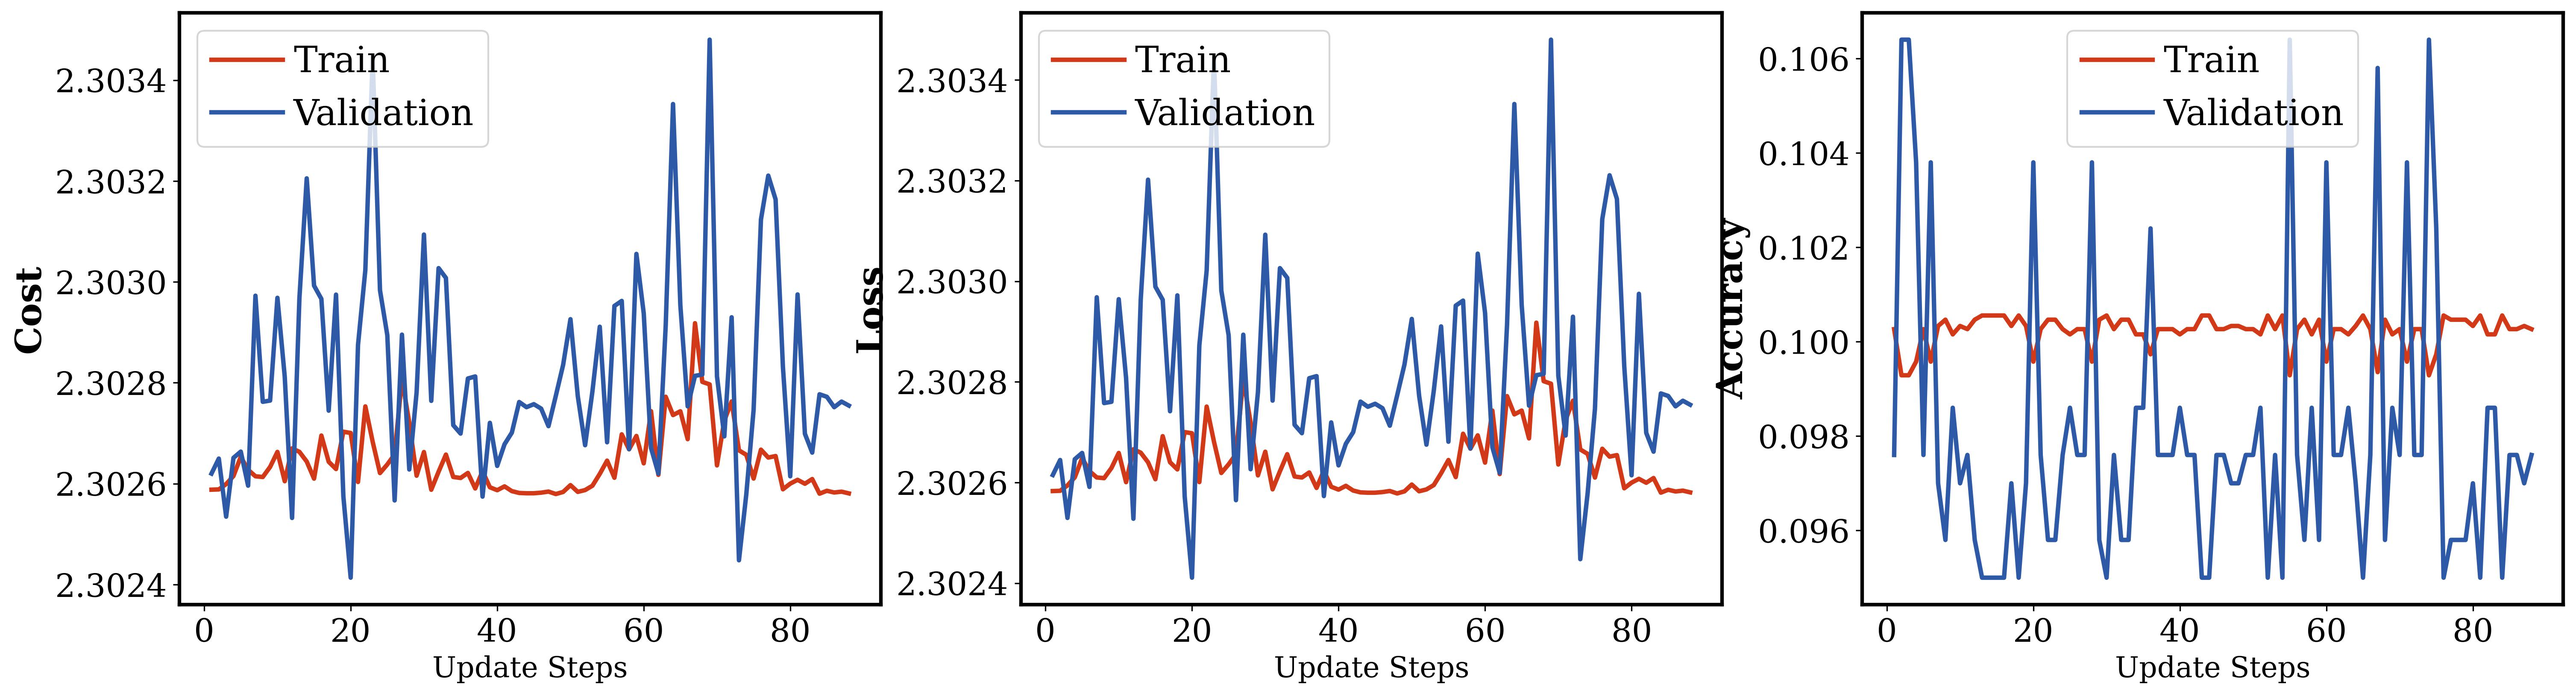
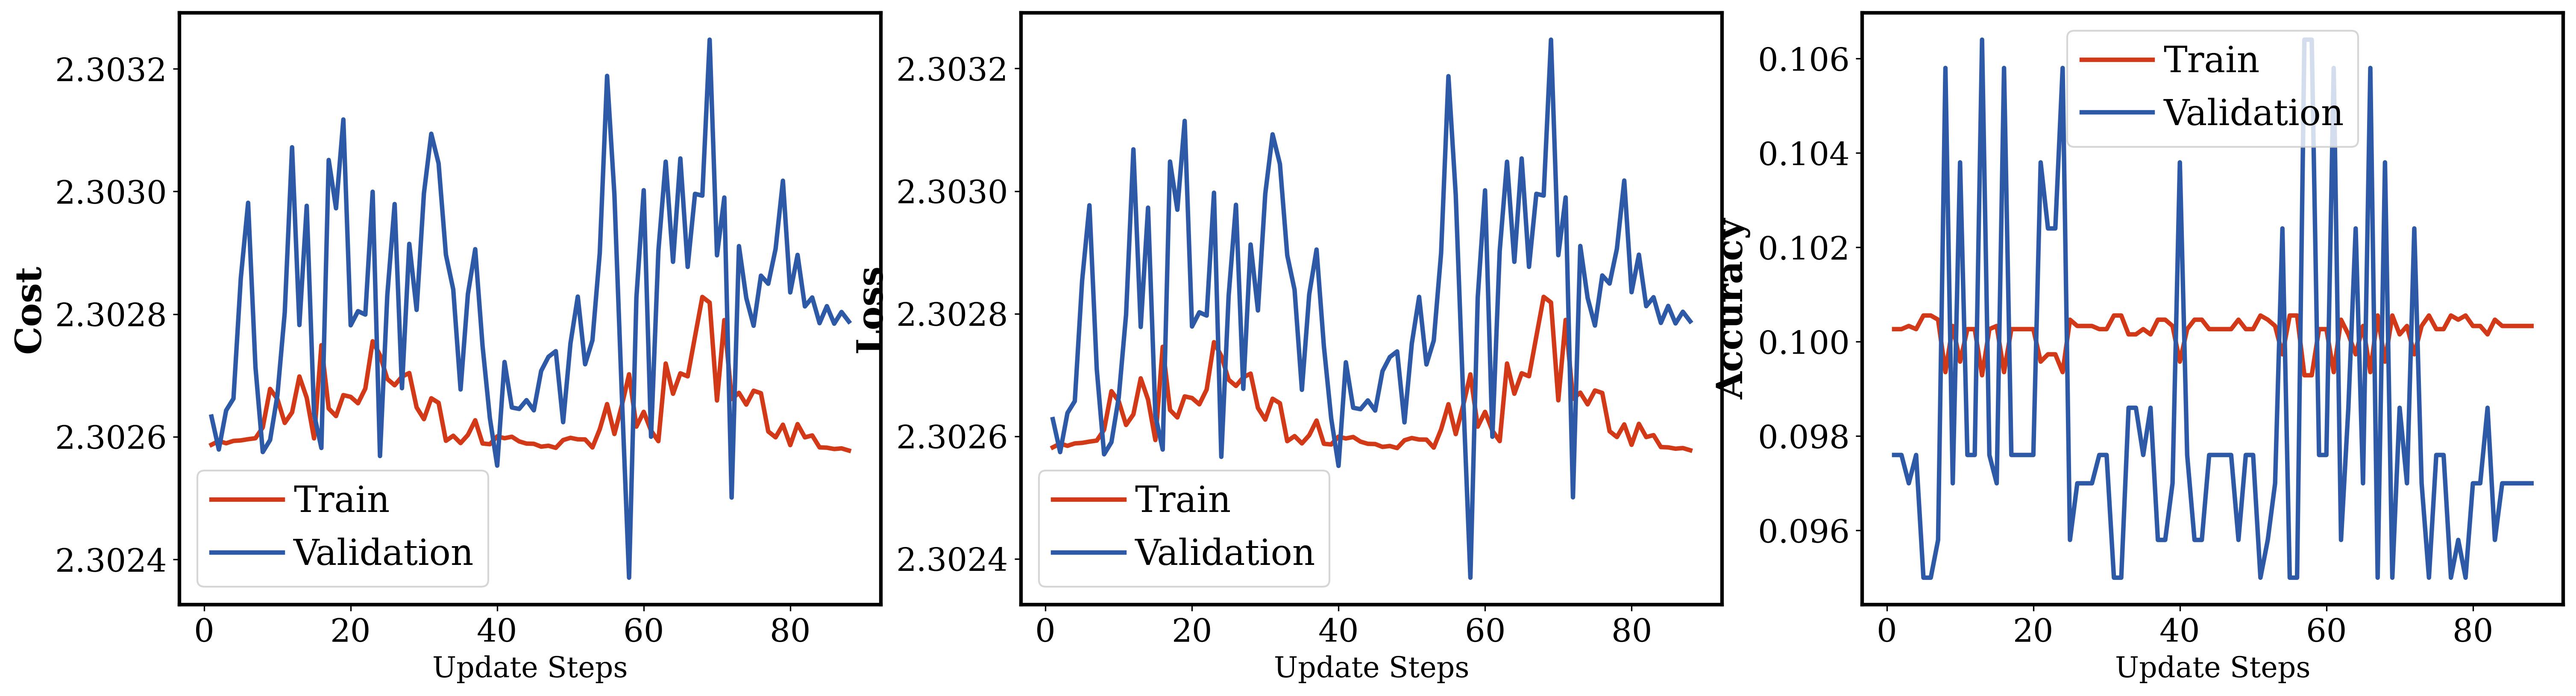
update

diff --git a/hw3/main.py b/hw3/main.py
@@ -798,8 +798,8 @@ class TestMethods(unittest.TestCase):
         bs    = 1
         data, labels = dl_One_batch()
         layers = make_layers_param(
-                shapes=[(50, trunc), (50, 50), (10, 50)],
-                activations=["relu", "relu", "softmax"])
+                shapes=[(50, trunc), (50, 50), (50, 50), (10, 50)],
+                activations=["relu", "relu","relu","softmax"])
 
         clf = mlpClassifier(data, layers=layers, if_batch_norm=True)
 
@@ -965,6 +965,7 @@ def sensitivity_study():
     """
     # Std to use for initialisation
     sigs = [1e-1,1e-3,1e-4]
+    sigs = [1e-4]
     # Get from the finer search 
     opt_lambda = 0.0032461338701209826
 
@@ -1030,9 +1031,10 @@ def post_sensitivity():
 
     icount = 0
 
-    plt_dict_bn_train = {'lw':2.5,'c':colorplate.red,"label":'Train BN'}
-    plt_dict_bn_val   = {'lw':2.5,'c':colorplate.blue,"label":'Val BN'}
-    plt_dict_bn       = {'lw':2.5,'c':colorplate.blue,"label":'Val BN'}
+    plt_bn_train = {'lw':2.5,'c':colorplate.red,"label":'Train BN'}
+    plt_bn_val   = {'lw':2.5,'c':colorplate.blue,"label":'Validation BN'}
+    plt_nb_train = {'lw':2.5,'c':colorplate.yellow,"label":'Train No-BN'}
+    plt_nb_val   = {'lw':2.5,'c':colorplate.cyan,"label":'Validation No-BN'}
     for il, sig in enumerate(sigs):
         print(f"At ({il+1}/{len(sigs)}): Plotting Case for Stdev = {sig:.3e}")
 
@@ -1047,6 +1049,7 @@ def post_sensitivity():
         
         case_name_bn = name_case(**model_config)
         
+        d_bn        = sio.loadmat(f'weights/HIST_{case_name_bn}.mat')
 
         # No-BN 
         #------------------------------------
@@ -1059,10 +1062,38 @@ def post_sensitivity():
                         lamda=opt_lambda)
         
         case_name_nb = name_case(**model_config)
-        
 
+        d_nb        = sio.loadmat(f'weights/HIST_{case_name_nb}.mat')
         
+        # Plot 
+        #-------------------------------------
+        n_range = np.arange(len(d_nb['train_cost'].flatten()))
+        n_start = 1 
+        n_interval = 1 
 
+        fig, axs = plt.subplots(1,3,figsize = (24,6))
+        axs[0].plot(n_range[n_start:-1:n_interval], d_bn['train_cost'].flatten()[n_start:-1:n_interval],**plt_bn_train)
+        axs[0].plot(n_range[n_start:-1:n_interval], d_bn['val_cost'].flatten()[n_start:-1:n_interval],**plt_bn_val)
+        axs[0].plot(n_range[n_start:-1:n_interval], d_nb['train_cost'].flatten()[n_start:-1:n_interval],**plt_nb_train)
+        axs[0].plot(n_range[n_start:-1:n_interval], d_nb['val_cost'].flatten()[n_start:-1:n_interval],**plt_nb_val)
+        axs[0].set_ylabel('Cost',font_dict)
+        axs[0].legend('upper right')
+
+        axs[1].plot(n_range[n_start:-1:n_interval],d_bn['train_loss'].flatten()[n_start:-1:n_interval],**plt_bn_train)
+        axs[1].plot(n_range[n_start:-1:n_interval],d_bn['val_loss'].flatten()[n_start:-1:n_interval],**plt_bn_val)
+        axs[1].plot(n_range[n_start:-1:n_interval],d_nb['train_loss'].flatten()[n_start:-1:n_interval],**plt_nb_train)
+        axs[1].plot(n_range[n_start:-1:n_interval],d_nb['val_loss'].flatten()[n_start:-1:n_interval],**plt_nb_val)
+        axs[1].set_ylabel('Loss',font_dict)
+        axs[1].legend("upper right")
+
+        axs[2].plot(n_range[n_start:-1:n_interval],d_bn['train_acc'].flatten()[n_start:-1:n_interval],**plt_bn_train)
+        axs[2].plot(n_range[n_start:-1:n_interval],d_bn['val_acc'].flatten()[n_start:-1:n_interval],**plt_bn_val)
+        axs[2].plot(n_range[n_start:-1:n_interval],d_nb['train_acc'].flatten()[n_start:-1:n_interval],**plt_nb_train)
+        axs[2].plot(n_range[n_start:-1:n_interval],d_nb['val_acc'].flatten()[n_start:-1:n_interval],**plt_nb_val)
+        axs[2].set_ylabel('Accuracy',font_dict)
+        axs[2].legend("lower right")
+        
+        fig.savefig(f'Figs/Sensitivity_{sig:.3e}.jpg',**fig_dict)
     return 
 
 
@@ -1126,6 +1157,7 @@ if __name__ == '__main__':
 
     elif args.mode == 4:
         lamda_coarse_search()
+         
     
     elif args.mode == 5:
         lamda_finer_search()
